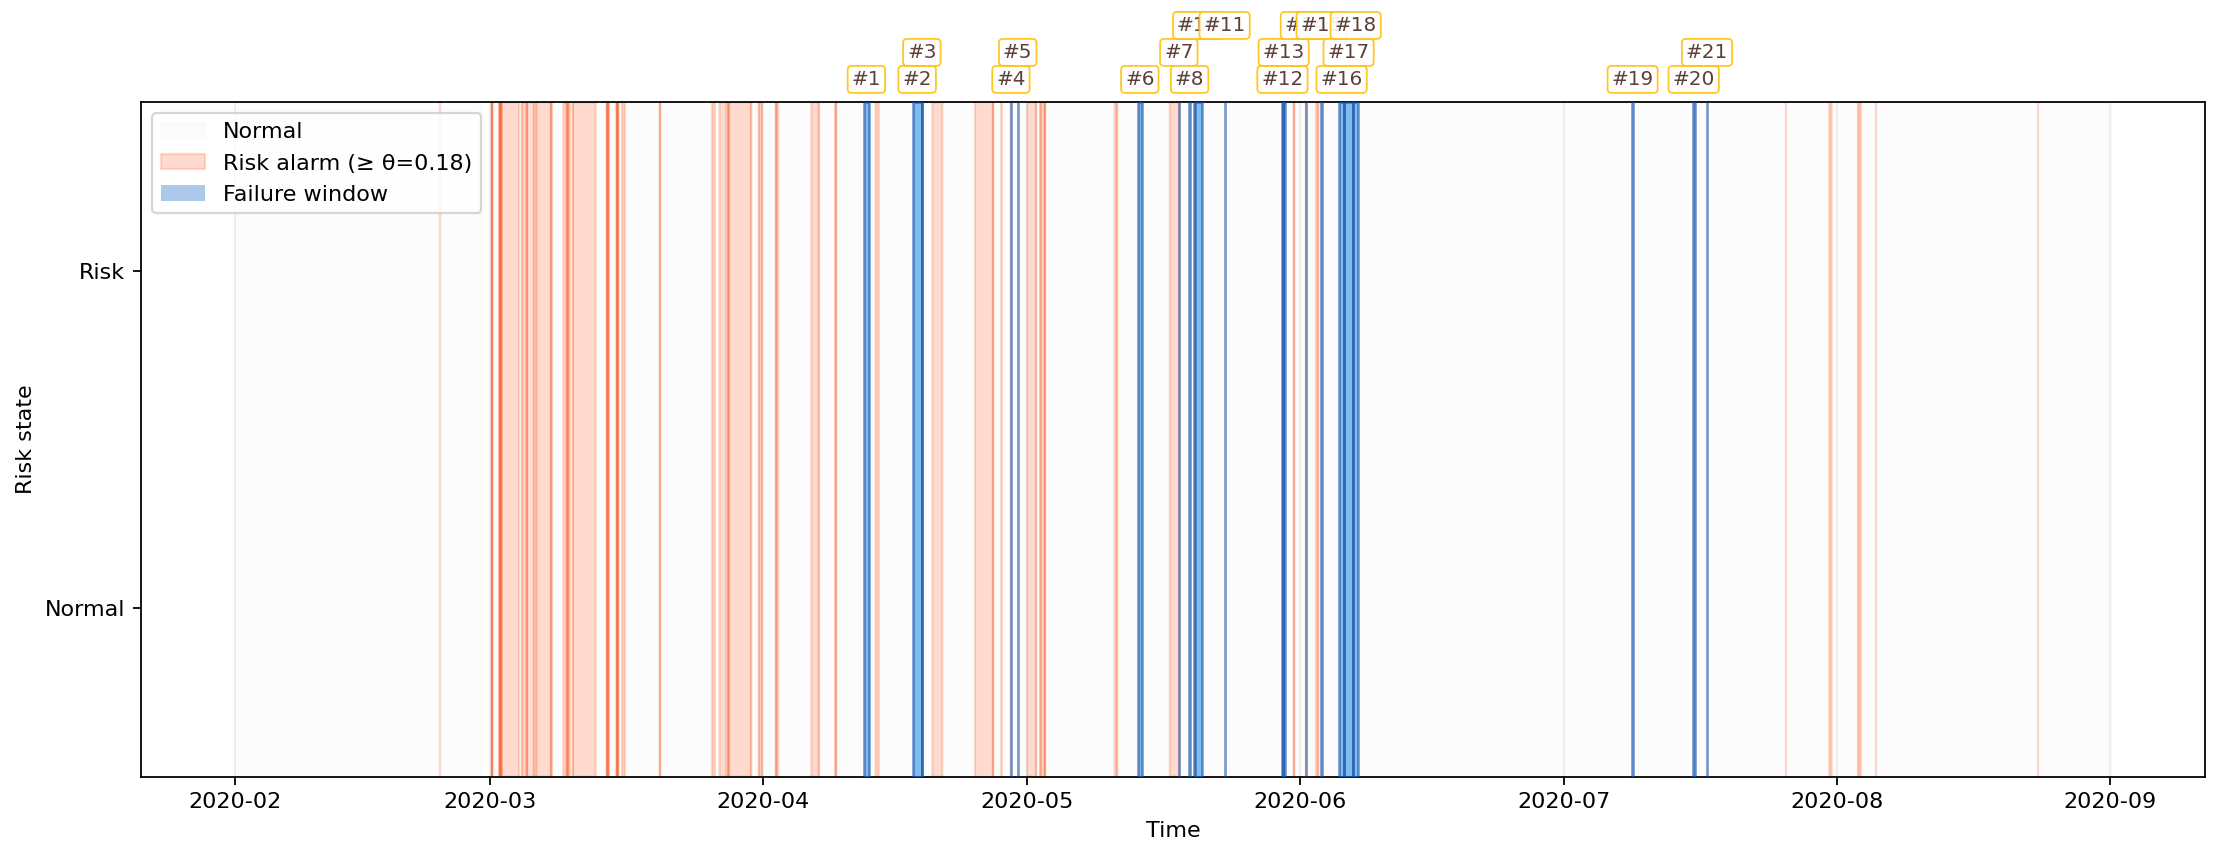
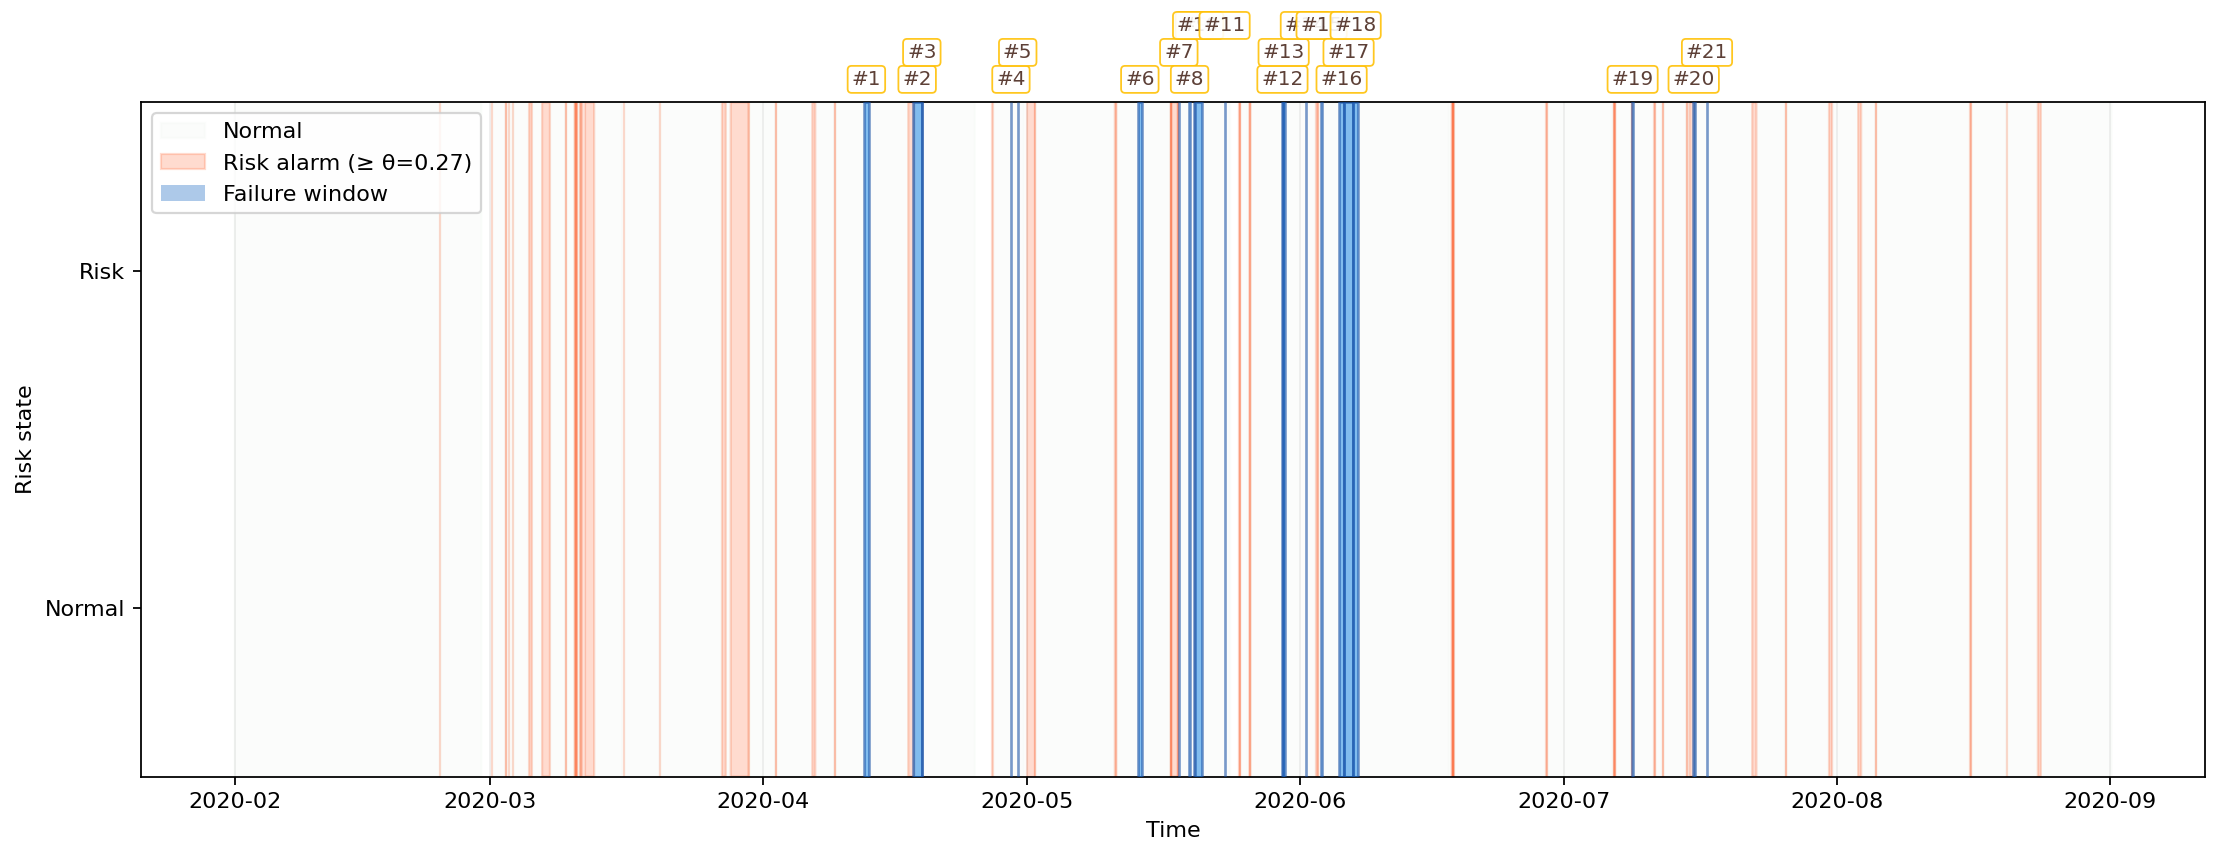
Add detailed documentation for MetroPT-IForest experiments: clarify workflow, feature engineering, anomaly detection modes, evaluation logic, and differences between `single` and `per_maint` experiment regimes.

diff --git a/Experiment.md b/Experiment.md
@@ -1,0 +1,219 @@
+## MetroPT-IForest Experiments (opis workflowa)
+
+Ta dokument v razumljivem jeziku razlozi, kako program bere podatke, kako gradi znacilke, kako trenira modele in kako izracuna dve vrsti anomalij (point‑wise in collective). Opis je 1:1 skladen z aktualno kodo.
+
+---
+
+## 1) Branje in priprava podatkov
+
+### Kakšni so podatki v CSV
+MetroPT3 vsebuje casovne vrste iz tramvaja (APU). V stolpcih se pojavljajo:
+- analogni senzorji (npr. tlaki, temperature, tok motorja),
+- binarni/kvazi‑binarni signali (npr. stikala ali stanja ventilov 0/1),
+- `timestamp` (casovni zig).
+
+Program CSV prebere, `timestamp` uredi in nastavi kot indeks.
+
+### PRE_DOWNSAMPLE_RULE (opcijsko)
+`PRE_DOWNSAMPLE_RULE` je pravilo resamplinga (npr. `"60s"`). Ce je nastavljen:
+- podatke agregiramo na enakomeren casovni korak,
+- v vsakem intervalu vzamemo median.
+
+**Zakaj to pomaga:**
+- odpravi neenakomerne casovne razmake,
+- zmanjsa sum,
+- omogoci stabilne rolling znacilke.
+
+### Izbor znacilk (feature engineering)
+Program vzame samo numericne stolpce. Nato:
+- lahko odstrani kvazi‑binarne stolpce (ce so prevec 0/1),
+- izmed preostalih izbere `MAX_BASE_FEATURES` z najvecjo varianco.
+
+**Zakaj to delamo:**
+- zmanjsamo dimenzionalnost,
+- omejimo sum,
+- ohranimo najbolj informativne signale.
+
+### Rolling znacilke
+Na izbranih signalih naredimo rolling statistike v oknu `ROLLING_WINDOW` (npr. mean, std, min, max, skew). Rezultat je matrika `X` (cas × znacilke), ki jo dobi model.
+
+---
+
+## 2) Maintenance okna in faze (operation_phase)
+
+Maintenance okna so vzeta **iz clanka Davari et al. (2021)**. Na tej osnovi vsak timestamp dobi fazo:
+- `operation_phase = 0` → normalno,
+- `operation_phase = 1` → pre‑maintenance (npr. 2 uri pred servisom; `PRE_MAINTENANCE_HOURS`),
+- `operation_phase = 2` → maintenance (servis).
+
+Faze **niso vhod modela**, uporabljajo se izkljucno za evaluacijo.
+
+---
+
+# Dve vrsti detekcije anomalij
+
+## A) Point‑wise anomalije (po vrstici)
+Model vsaki vrstici dodeli `is_anomaly` (0/1).
+- `is_anomaly = 1`, ce je `anom_score >= threshold`.
+- `threshold` = `Q3 + 3*IQR` iz **ucnih** score‑ov.
+
+### Point‑wise evalvacija (TP/FP/FN/TN)
+V evaluacijo gredo le faze 0 in 1:
+- **TP**: `phase=1` in `is_anomaly=1`
+- **FP**: `phase=0` in `is_anomaly=1`
+- **FN**: `phase=1` in `is_anomaly=0`
+- **TN**: `phase=0` in `is_anomaly=0`
+- `phase=2` je **ignorirana**.
+
+Iz point‑wise evaluacije so dodatno izloceni:
+- zacetni ucni interval (`TRAIN_FRAC` minut),
+- vsi post‑maintenance ucni intervali,
+da je primerjava med rezimoma fer.
+
+---
+
+## B) Collective anomalije (event‑level)
+Collective anomalija ni nova oznaka v podatkih, ampak agregacija point‑wise anomalij skozi casovno okno.
+
+**Koraki:**
+1. `exceedance`  
+   - `exceedance = 1`, kjer je `anom_score >= threshold`.  
+   - to je binarni signal "presega prag".
+2. `maintenance_risk`  
+   - rolling povprecje `exceedance` v oknu `RISK_WINDOW_MINUTES`.  
+   - predstavlja **delez anomalij v zadnjem casovnem oknu**.
+3. Alarm interval  
+   - vsak neprekinjen segment, kjer `maintenance_risk >= θ`.
+
+**Mini primer (poenostavljeno):**
+```
+timestamp           exceedance  maintenance_risk  alarm?
+10:00               0           0.02              no
+10:05               1           0.05              no
+10:10               1           0.12              yes
+10:15               1           0.18              yes
+10:20               0           0.09              no
+```
+Alarm interval je 10:10–10:15.
+
+### Event‑level TP/FP/FN (primer iz MetroPT)
+Recimo servis #7:  
+`2020-05-18 05:00 → 05:30` in `EARLY_WARNING_MINUTES = 120`.
+Potem je veljavno okno za TP:
+`03:00 → 05:30`.
+
+- **TP**: zacetek alarma pade v to okno (npr. 03:10).
+- **FN**: noben alarm se ne zacne v tem oknu.
+- **FP**: alarm interval, ki ni povezan z nobenim servisom.
+- **TN** na event nivoju ni definiran (ni negativnih “eventov”).
+
+---
+
+# Rezim A: Single model (`EXPERIMENT_MODE="single"`)
+
+## Ucenje
+- Model se uci **na prvih `TRAIN_FRAC` minutah** (trenutno 1440 min = 24h).
+- Iz ucnih vrstic so izlocene `operation_phase == 2`.
+  - **Zakaj?** Ne zelimo, da se model "nauci" vzorec servisa kot normalno stanje.
+
+## Scoring
+- Model oceni **vse** vrstice.
+- `anom_score` je osnovni IF score; `anom_score_lpf` je opcijsko glajenje (LPF), ki zmanjsa sum in kratke spike.
+
+## Evaluacija
+Point‑wise in event‑level logika je enaka kot zgoraj.  
+Za fer primerjavo se izlocijo tudi post‑maintenance ucni intervali.
+
+---
+
+# Rezim B: Per‑maintenance model (`EXPERIMENT_MODE="per_maint"`)
+
+## Globalni baseline
+- **Globalni baseline** = isti zacetni TRAIN_FRAC interval (brez phase 2).
+- Ta baseline je **vedno** del ucnih podatkov vsakega per‑maint modela.
+- To **ni fine‑tuning**; vsak model se uci znova na (baseline + lokalni interval).
+
+## Oznake (da bo zapis jasno sledljiv)
+- `Wj` = j‑ti servisni interval  
+- `start_j`, `end_j` = zacetek in konec servisa  
+- `gap` = interval `(end_j, start_{j+1})`  
+- `POST_MAINT_TRAIN_MINUTES` = dolzina lokalnega ucnega intervala po servisu
+
+## Ucenje in test po servisih
+Za vsak servis `Wj`:
+- definira se `gap = (end_j, start_{j+1})`
+- ce je `gap <= POST_MAINT_TRAIN_MINUTES`:
+  - **ne treniramo** novega modela, uporabimo prejsnjega
+- ce je gap daljsi:
+  - lokalni ucni interval = prvih `POST_MAINT_TRAIN_MINUTES` po `end_j`
+  - ucenje = **baseline + lokalni interval** (brez phase 2)
+  - test = preostanek gap‑a do naslednjega servisa
+
+## Scoring
+- Vsak segment dobi svoj IF model (ali ponovno uporabi prejsnjega).
+- `anom_score`, `is_anomaly` in `threshold` so segment‑specificni.
+- **"Zlepljen exceedance"** pomeni:
+  - za vsak timestamp vzamemo `exceedance` iz modela, ki pokriva ta segment,
+  - vse segmente zdruzimo v en casovni niz,
+  - iz tega nastane enoten `maintenance_risk`.
+
+## Point‑wise evaluacija
+Da, vsak model oznacuje **samo** vrstice v svojem test intervalu.  
+Nato se vse oznake zdruzijo in evalvirajo enako kot pri single:
+- phase 1 = pozitivno, phase 0 = negativno, phase 2 ignorirano.
+- izlocimo baseline + post‑maintenance ucne intervale (fer primerjava).
+
+## Event‑level evaluacija
+Event‑level logika je **enaka** kot pri single, ker:
+- na koncu dobimo **enoten `maintenance_risk`** niz,
+- alarm intervali se racunajo na celotnem nizu,
+- TP/FN/FP definicije so iste.
+
+---
+
+# Ključne razlike (kratko in pregledno)
+
+| Lastnost | Single | Per‑maintenance |
+|---|---|---|
+| Stevilo modelov | 1 | vec (po servisih) |
+| Ucni podatki | samo zacetni TRAIN_FRAC interval | baseline + lokalni post‑maint interval |
+| Score/threshold | globalen | segment‑specificen |
+| Point‑wise logika | ista | ista |
+| Collective logika | ista | ista |
+
+---
+
+# Rezultati (zadnji tek)
+
+### Event‑level (Best θ)
+| Regime | Tag | θ | TP | FP | FN | Precision | Recall | F1 |
+|---|---|---:|---:|---:|---:|---:|---:|---:|
+| Single | `[RISK]` | 0.60 | 7 | 32 | 14 | 0.1795 | 0.3333 | 0.2333 |
+| Per‑maint | `[RISK-PERMAINT]` | 0.27 | 2 | 85 | 19 | 0.0230 | 0.0952 | 0.0370 |
+
+### Point‑wise
+| Regime | Tag | TP | FP | FN | TN | Precision | Recall | F1 | Accuracy |
+|---|---|---:|---:|---:|---:|---:|---:|---:|---:|
+| Single | `[METRIC] Single-model` | 2261 | 240374 | 6718 | 1111512 | 0.0093 | 0.2518 | 0.0180 | 0.8184 |
+| Per‑maint | `[METRIC] Per-maint-model` | 2456 | 201039 | 6523 | 1150846 | 0.0121 | 0.2735 | 0.0231 | 0.8475 |
+
+---
+
+# Vizualizacija (mentalni model)
+
+Single:
+```
+TRAIN_FRAC --------> [model A] ----------------------------------> scoring vseh vrstic
+```
+
+Per‑maint:
+```
+baseline + post‑maint_1 --> model B --> scoring gap_1
+baseline + post‑maint_2 --> model C --> scoring gap_2
+...
+```
+
+Rezultat v obeh rezimih je:
+- `is_anomaly` za vsako vrstico (point‑wise)
+- `maintenance_risk` za casovno okno (collective)
+- TP/FP/FN/TN (point‑wise) in TP/FP/FN (event‑level)
